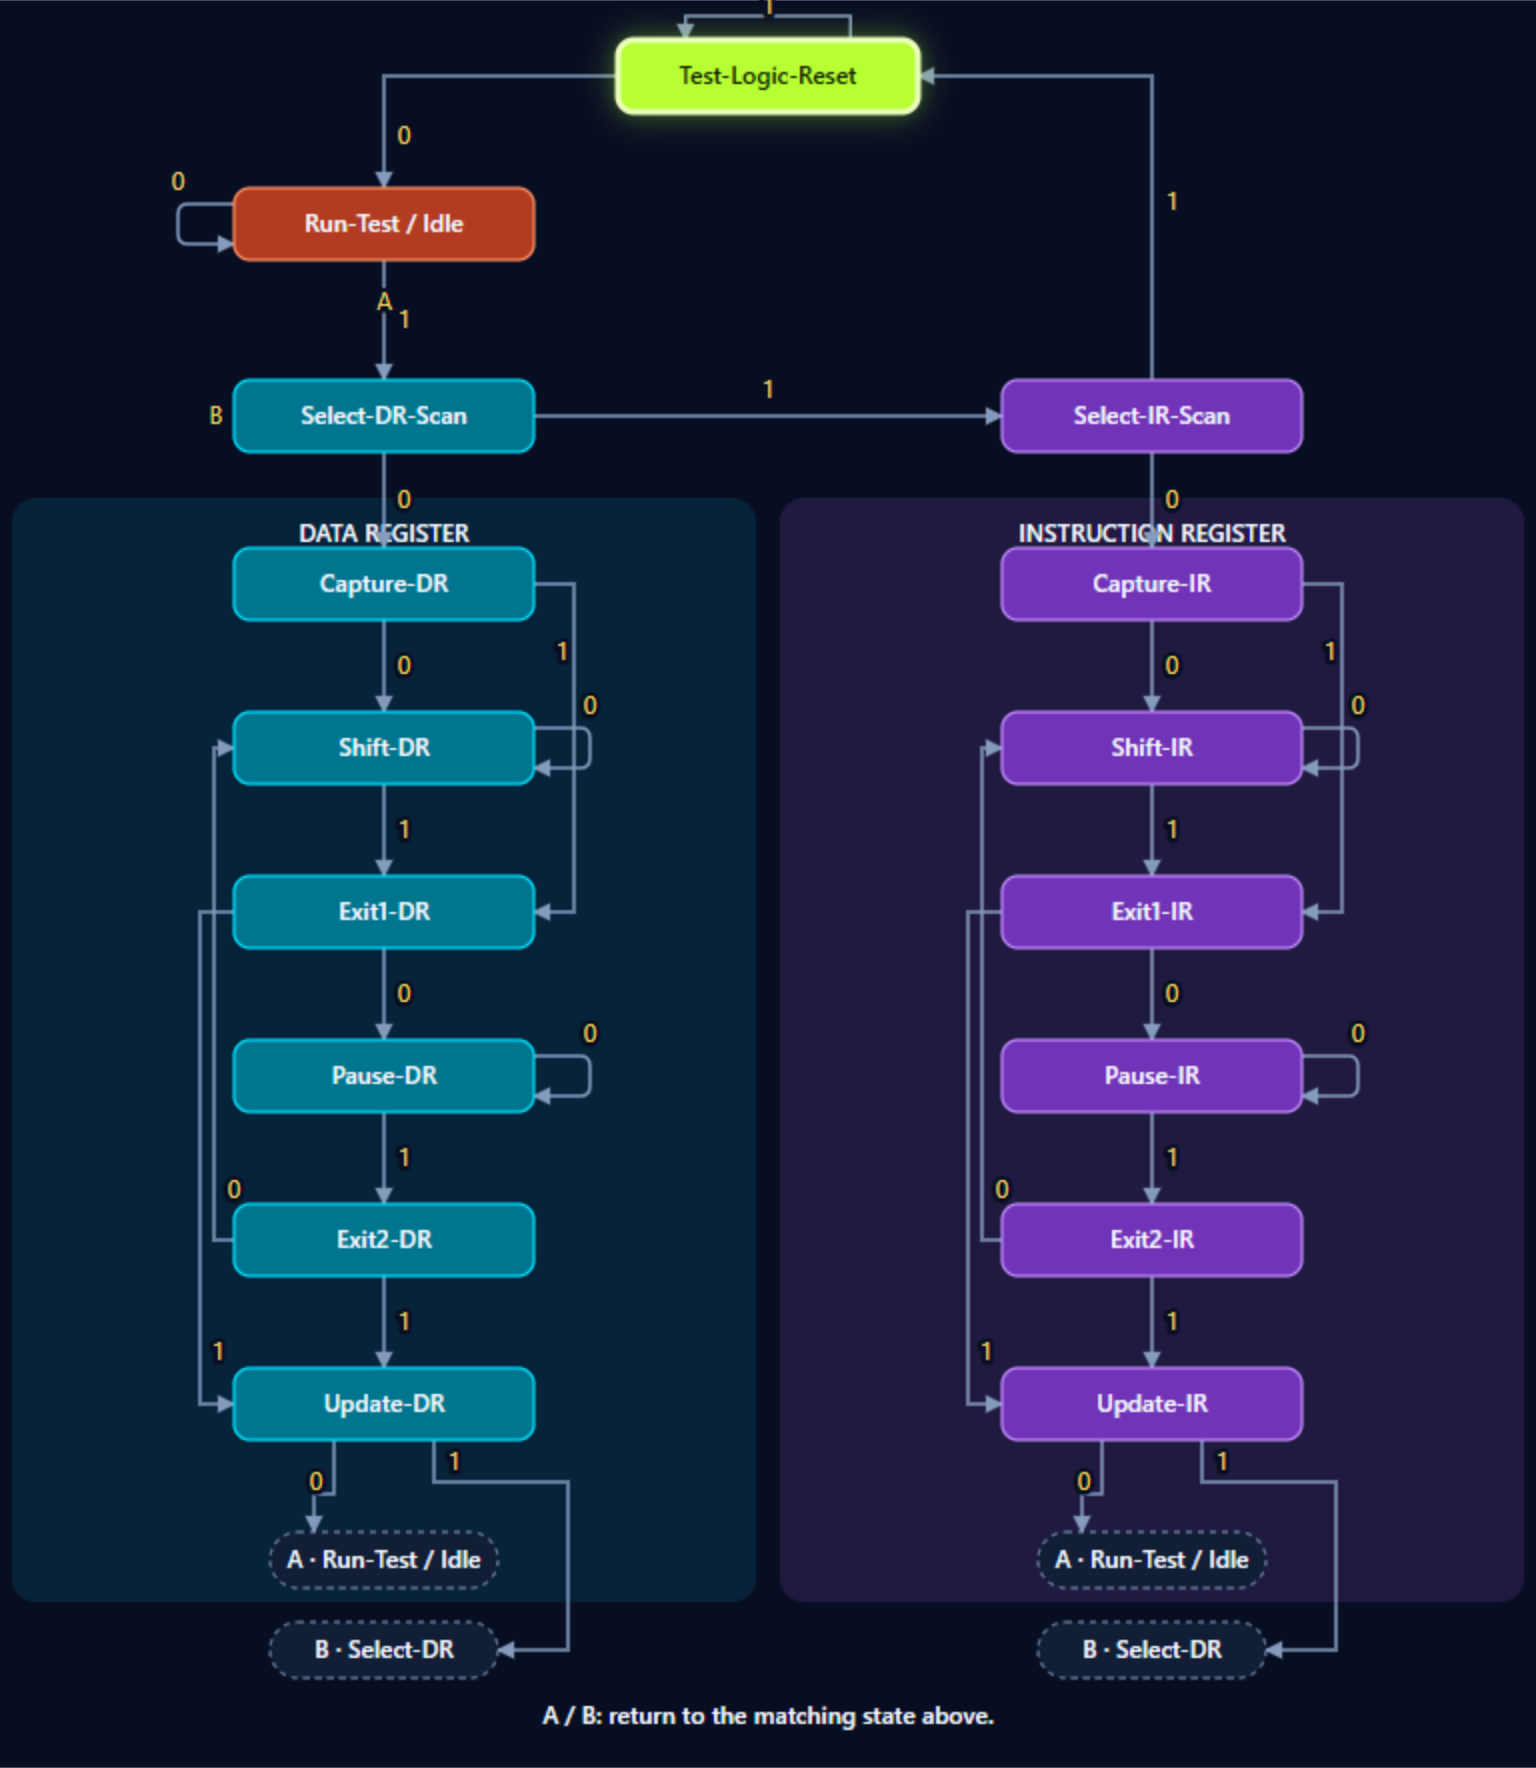
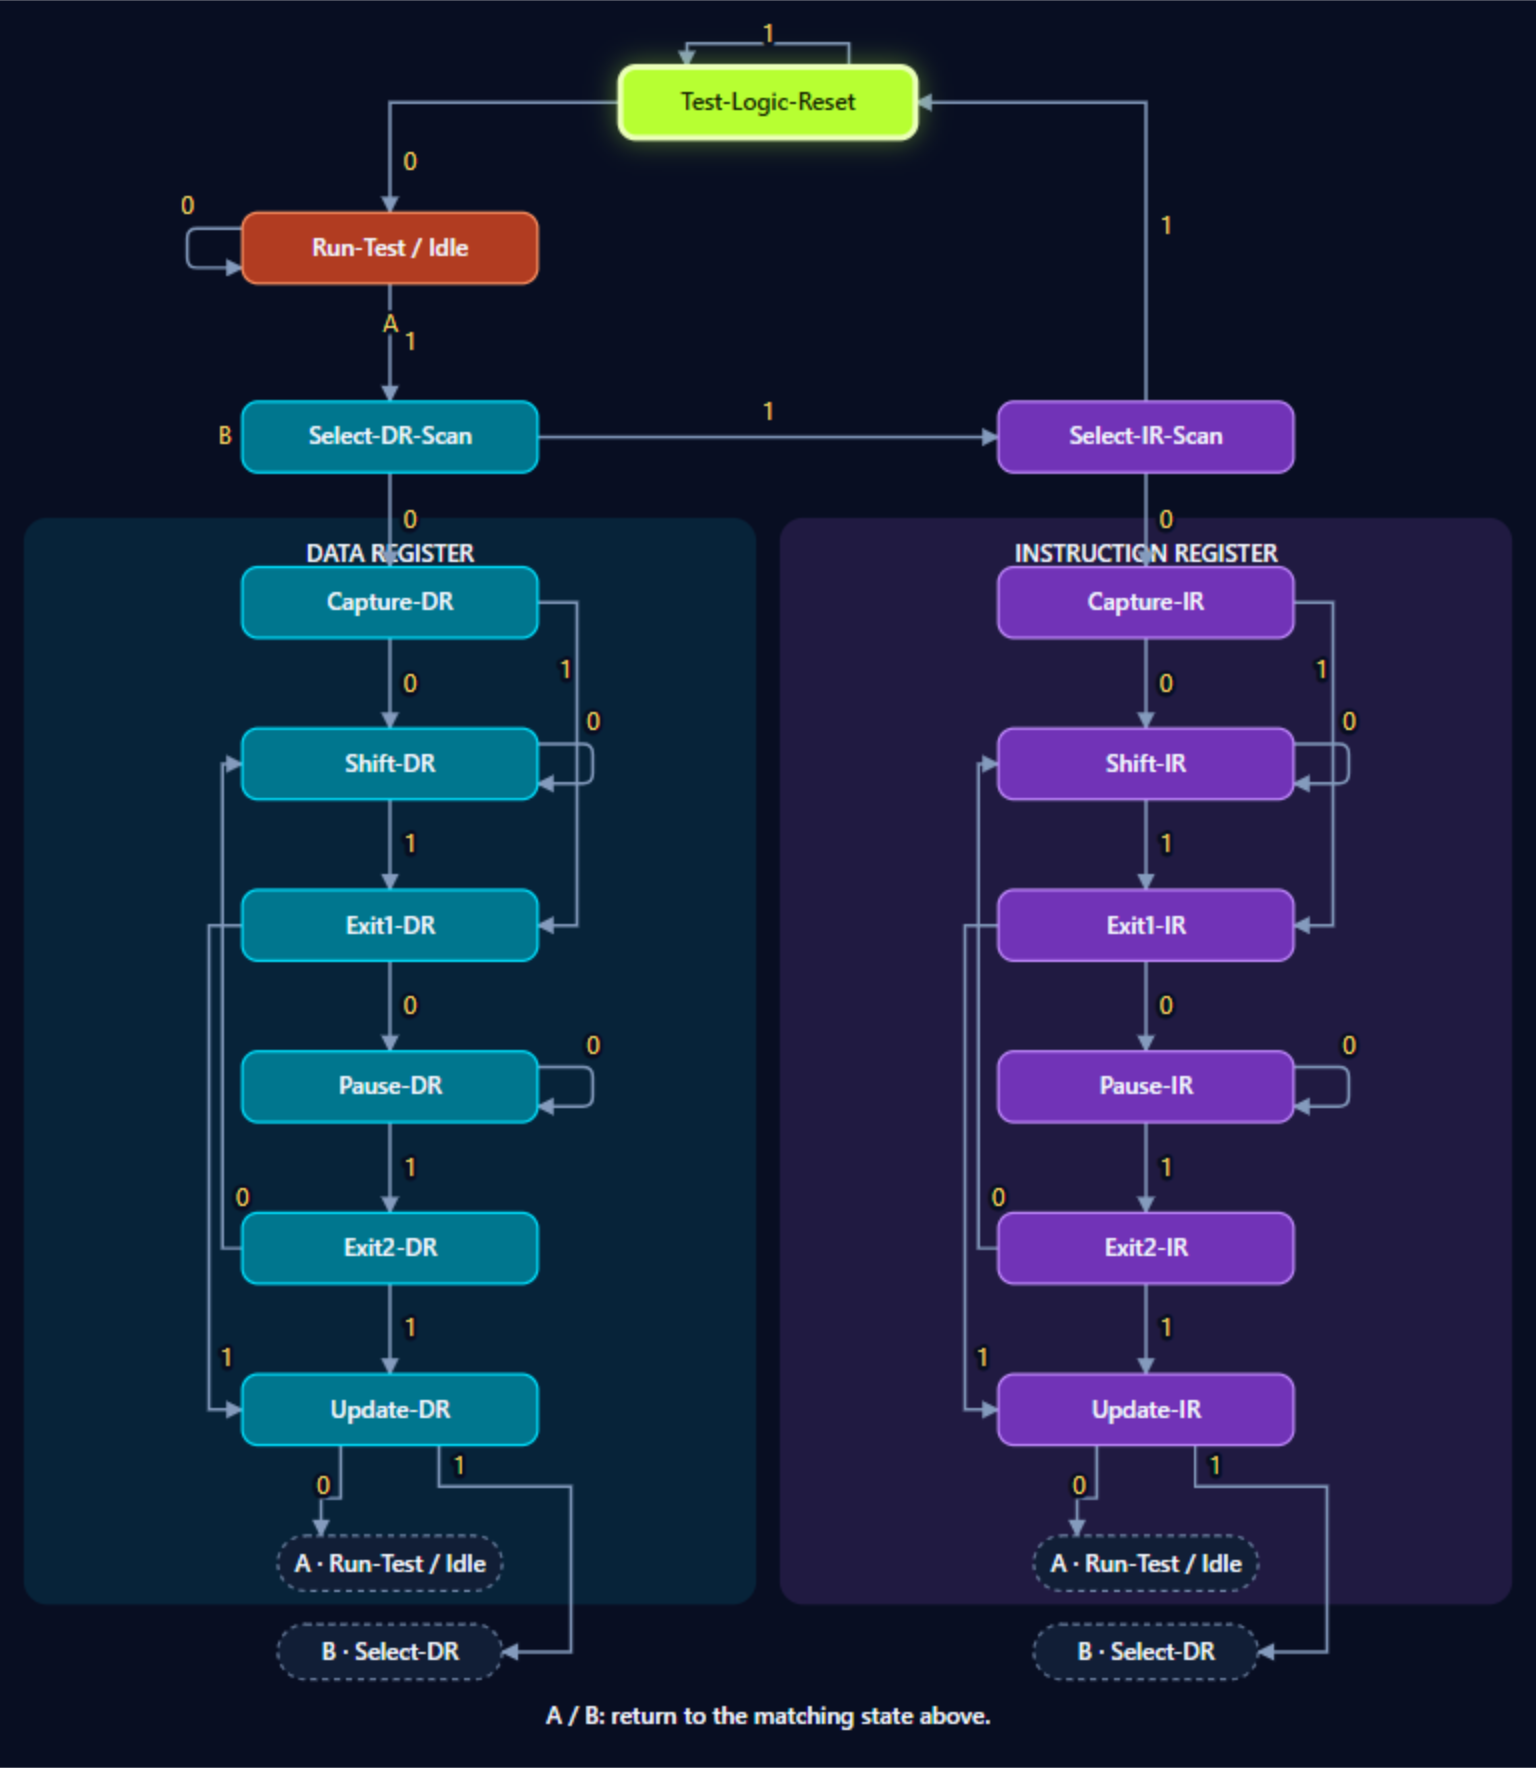
Keep reset-loop label inside exported TAP preview

Changed region(s): [[0.0938, 0.0, 1.0, 0.9644], [0.3438, 0.9644, 0.6562, 0.9955], [0.3438, 0.6844, 0.375, 0.7155]]

diff --git a/docs/tap-controller/index.html b/docs/tap-controller/index.html
@@ -1084,7 +1084,7 @@ html&gt;body{padding:0}&lt;/style&gt;
  function txt(x,y,s,cls=&#x27;label&#x27;,anchor=&#x27;middle&#x27;){const e=el(&#x27;text&#x27;,{x,y,class:cls,&#x27;text-anchor&#x27;:anchor});e.textContent=s;return e;}
  function draw(){
   svg.replaceChildren();const w=Math.max(300,root.getBoundingClientRect().width),h=884,nw=Math.min(150,w*.29),hh=36;
-  svg.setAttribute(&#x27;viewBox&#x27;,`0 0 ${w} ${h}`);svg.style.height=h+&#x27;px&#x27;;
+  svg.setAttribute(&#x27;viewBox&#x27;,`0 -14 ${w} ${h+14}`);svg.style.height=h+&#x27;px&#x27;;
   const d=w*.25,i=w*.75,c=w*.5,half=nw/2;
   const defs=el(&#x27;defs&#x27;,{});for(const [id,color] of [[&#x27;arrow&#x27;,&#x27;var(--muted-foreground)&#x27;],[&#x27;active-arrow&#x27;,&#x27;var(--viz-series-1)&#x27;]]){const m=el(&#x27;marker&#x27;,{id:&#x27;tap-&#x27;+id,viewBox:&#x27;0 0 10 10&#x27;,refX:9,refY:5,markerWidth:6,markerHeight:6,orient:&#x27;auto&#x27;},defs);el(&#x27;path&#x27;,{d:&#x27;M 0 0 L 10 5 L 0 10 z&#x27;,fill:color},m);}
   const p={RESET:[c,38],IDLE:[d,112],SDR:[d,208],SIR:[i,208]};
@@ -1146,6 +1146,7 @@ html&gt;body{padding:0}&lt;/style&gt;
  new ResizeObserver(draw).observe(root);draw();
 })();
 &lt;/script&gt;
+
 
 &lt;script src=&quot;https://unpkg.com/@floating-ui/core@1.7.3/dist/floating-ui.core.umd.min.js&quot;&gt;&lt;/script&gt;
 &lt;script src=&quot;https://unpkg.com/@floating-ui/dom@1.7.4/dist/floating-ui.dom.umd.min.js&quot;&gt;&lt;/script&gt;
